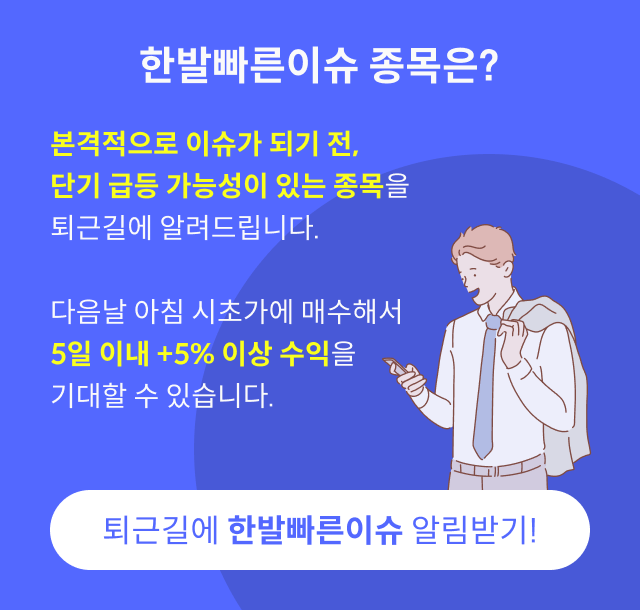
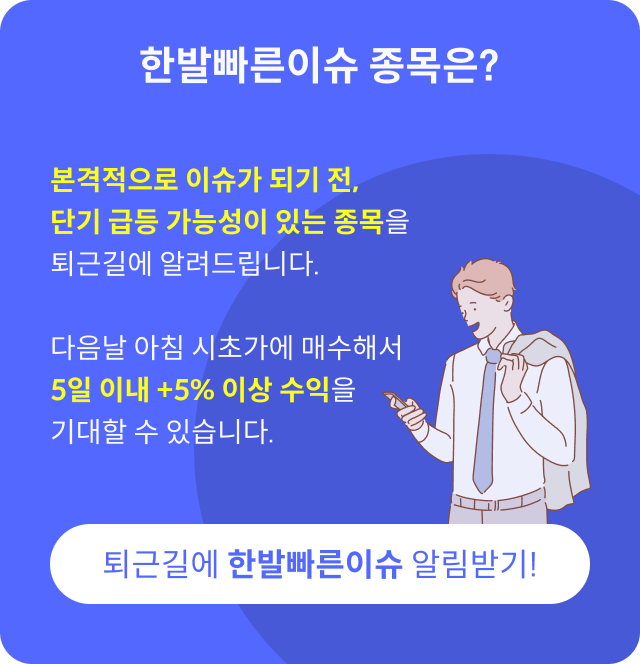
변경사항 추가

diff --git a/components/IssueCatch/QuickIssue.vue b/components/IssueCatch/QuickIssue.vue
@@ -218,7 +218,7 @@
                 <!-- num -->
                 <div class="obj">
                   <span class="txt">한국경제TV</span>
-                  <span class="bullet up">매도</span>
+                  <span class="bullet dn">매도</span>
                   <!-- bullet - up,dn,mid -->
                 </div>
                 <!-- obj -->
@@ -242,7 +242,7 @@
                 <!-- num -->
                 <div class="obj">
                   <span class="txt">한국경제TV</span>
-                  <span class="bullet up">종목교체</span>
+                  <span class="bullet mid">종목교체</span>
                   <!-- bullet - up,dn,mid -->
                 </div>
                 <!-- obj -->
@@ -283,7 +283,7 @@
                 <!-- num -->
                 <div class="obj">
                   <span class="txt">한국경제TV</span>
-                  <span class="bullet up">보유중</span>
+                  <span class="bullet mid">보유중</span>
                   <!-- bullet - up,dn,mid -->
                 </div>
                 <!-- obj -->
@@ -307,7 +307,7 @@
                 <!-- num -->
                 <div class="obj">
                   <span class="txt">한국경제TV</span>
-                  <span class="bullet up">매도</span>
+                  <span class="bullet dn">매도</span>
                   <!-- bullet - up,dn,mid -->
                 </div>
                 <!-- obj -->
@@ -331,7 +331,7 @@
                 <!-- num -->
                 <div class="obj">
                   <span class="txt">한국경제TV</span>
-                  <span class="bullet up">종목교체</span>
+                  <span class="bullet mid">종목교체</span>
                   <!-- bullet - up,dn,mid -->
                 </div>
                 <!-- obj -->
@@ -556,7 +556,7 @@
         </div>
         <!--  -->
 
-        <div ref="contRef" class="cont" @scroll="handleScroll">
+        <div ref="contRef" class="cont">
           <div class="issue">
             <strong
               ><svg
@@ -768,22 +768,6 @@ export default {
     },
     closeModal(modalId) {
       this.$set(this.modals, modalId, false);
-    },
-    handleScroll() {
-      // Get the reference to the container element
-      const contElement = this.$refs.contRef;
-
-      // Get all the .list spans
-      const listSpans = contElement.querySelectorAll('.list span');
-
-      // Loop through each span and check if it is in the viewport
-      listSpans.forEach((span) => {
-        const rect = span.getBoundingClientRect();
-        if (rect.top <= contElement.clientHeight + 100) {
-          // Add the 'on' class if the span is in the viewport
-          span.classList.add('on');
-        } 
-      });
     },
   },
 };

diff --git a/components/IssueCatch/TodayIssue.vue b/components/IssueCatch/TodayIssue.vue
@@ -298,7 +298,7 @@
         </div>
         <!--  -->
 
-        <div ref="contRef" class="cont" @scroll="handleScroll">
+        <div ref="contRef" class="cont">
           <div class="issue">
             <strong
               ><svg
@@ -497,22 +497,6 @@ export default {
     },
     closeModal(modalId) {
       this.$set(this.modals, modalId, false);
-    },
-    handleScroll() {
-      // Get the reference to the container element
-      const contElement = this.$refs.contRef;
-
-      // Get all the .list spans
-      const listSpans = contElement.querySelectorAll(".list span");
-
-      // Loop through each span and check if it is in the viewport
-      listSpans.forEach((span) => {
-        const rect = span.getBoundingClientRect();
-        if (rect.top <= contElement.clientHeight + 100) {
-          // Add the 'on' class if the span is in the viewport
-          span.classList.add("on");
-        }
-      });
     },
   },
 };

diff --git a/assets/css/quickCatch.css b/assets/css/quickCatch.css
@@ -2,7 +2,7 @@
   @apply px-5 pb-[50px] bg-[#333340]
 }
 .issueCard{
-  @apply bg-white w-full mx-auto rounded-[10px] overflow-hidden p-[15px_10px]
+  @apply bg-white w-full mx-auto rounded-[18px] overflow-hidden p-[15px_10px]
 }
 .issueCard.bnr{
   @apply p-0

diff --git a/components/SignalCatch/CatchTab.vue b/components/SignalCatch/CatchTab.vue
@@ -1,5 +1,6 @@
 <template>
-  <div class="list_w notJoin">
+  <!-- 비가입자 일 경우 list_w 에 notJoin 추가 -->
+  <div class="list_w">
     <div class="tab">
       <button
         :class="{ active: activeTab === 'month3' }"
